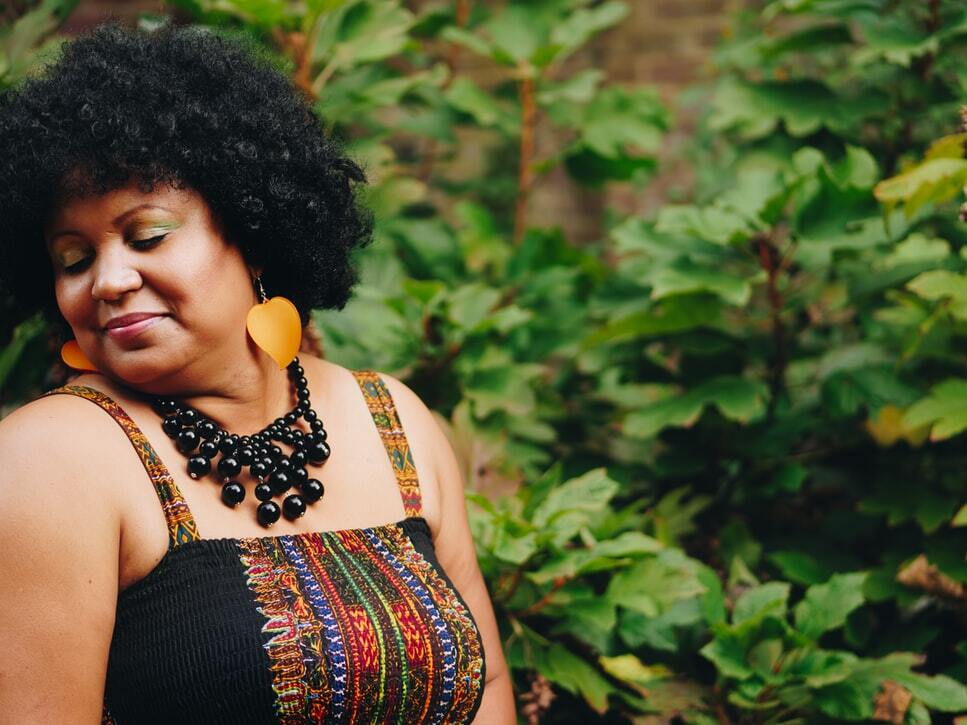
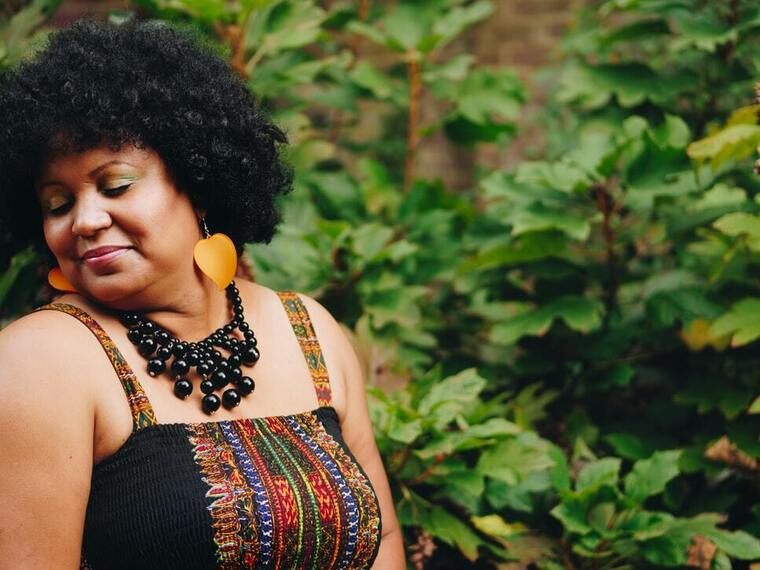
teakes after merging with master

Changed region(s): [[0.2421, 0.7158, 0.5145, 0.9842], [0.1513, 0.6263, 0.1816, 0.686], [0.1816, 0.7158, 0.2118, 0.7456]]

diff --git a/src/components/Register/Register.vue b/src/components/Register/Register.vue
@@ -45,6 +45,12 @@ export default {
     return {};
   },
   created() {},
-  methods: {},
+  methods: {}
 };
 </script>
+
+<style lang="scss">
+.aside__image {
+  max-width: 100%;
+}
+</style>

diff --git a/src/components/Absentee/Absentee.vue b/src/components/Absentee/Absentee.vue
@@ -44,3 +44,8 @@ export default {
   methods: {}
 };
 </script>
+<style lang="scss">
+.aside__img {
+  max-width: 100%;
+}
+</style>

diff --git a/src/components/Register/_register.scss b/src/components/Register/_register.scss
@@ -18,3 +18,6 @@
 .article__img--register {
   margin-top: $spacing-05;
 }
+.aside__img {
+  max-width: 100%;
+}

diff --git a/src/components/VoteNow/_votenow.scss b/src/components/VoteNow/_votenow.scss
@@ -44,3 +44,6 @@
   display: block;
   font-weight: bold;
 }
+.aside__img {
+  max-width: 100%;
+}
